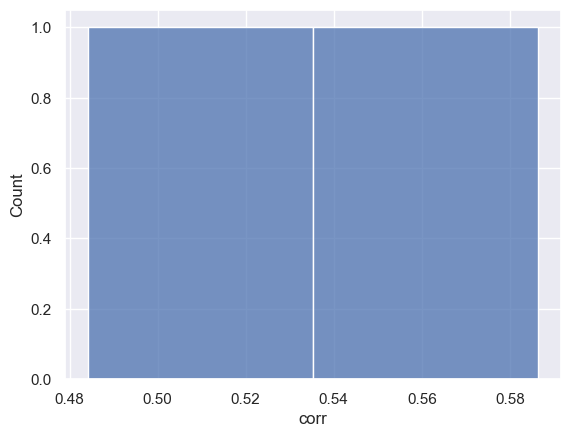
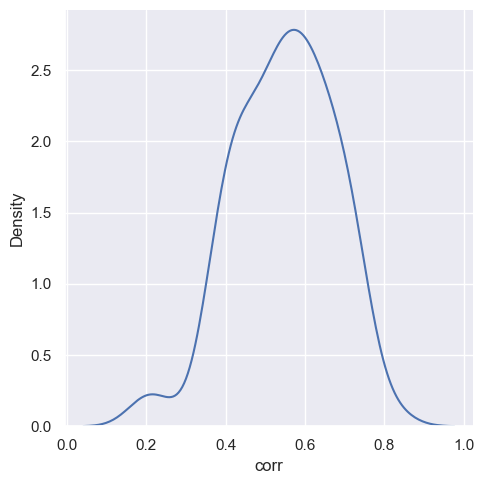
update experiments/rb_monkey_new_fit/README.md, base-neuron-response-corellation-.pdf, base-neuron-response-corellation-.png and base-neuron-response-corellation.yaml

diff --git a/experiments/rb_monkey_new_fit/README.md b/experiments/rb_monkey_new_fit/README.md
@@ -130,7 +130,7 @@ python analysis_v1.py \
 -v \
 "import experiments.rb_monkey_new_fit.utils as eu" \
 "df=eu.proc_df(df, ['corr'])" \
-"sns.histplot(data=df, x='corr')"
+"sns.displot(data=df, x='corr', kind='kde')"
 ```
 
 ![](base-neuron-response-corellation-.png)
